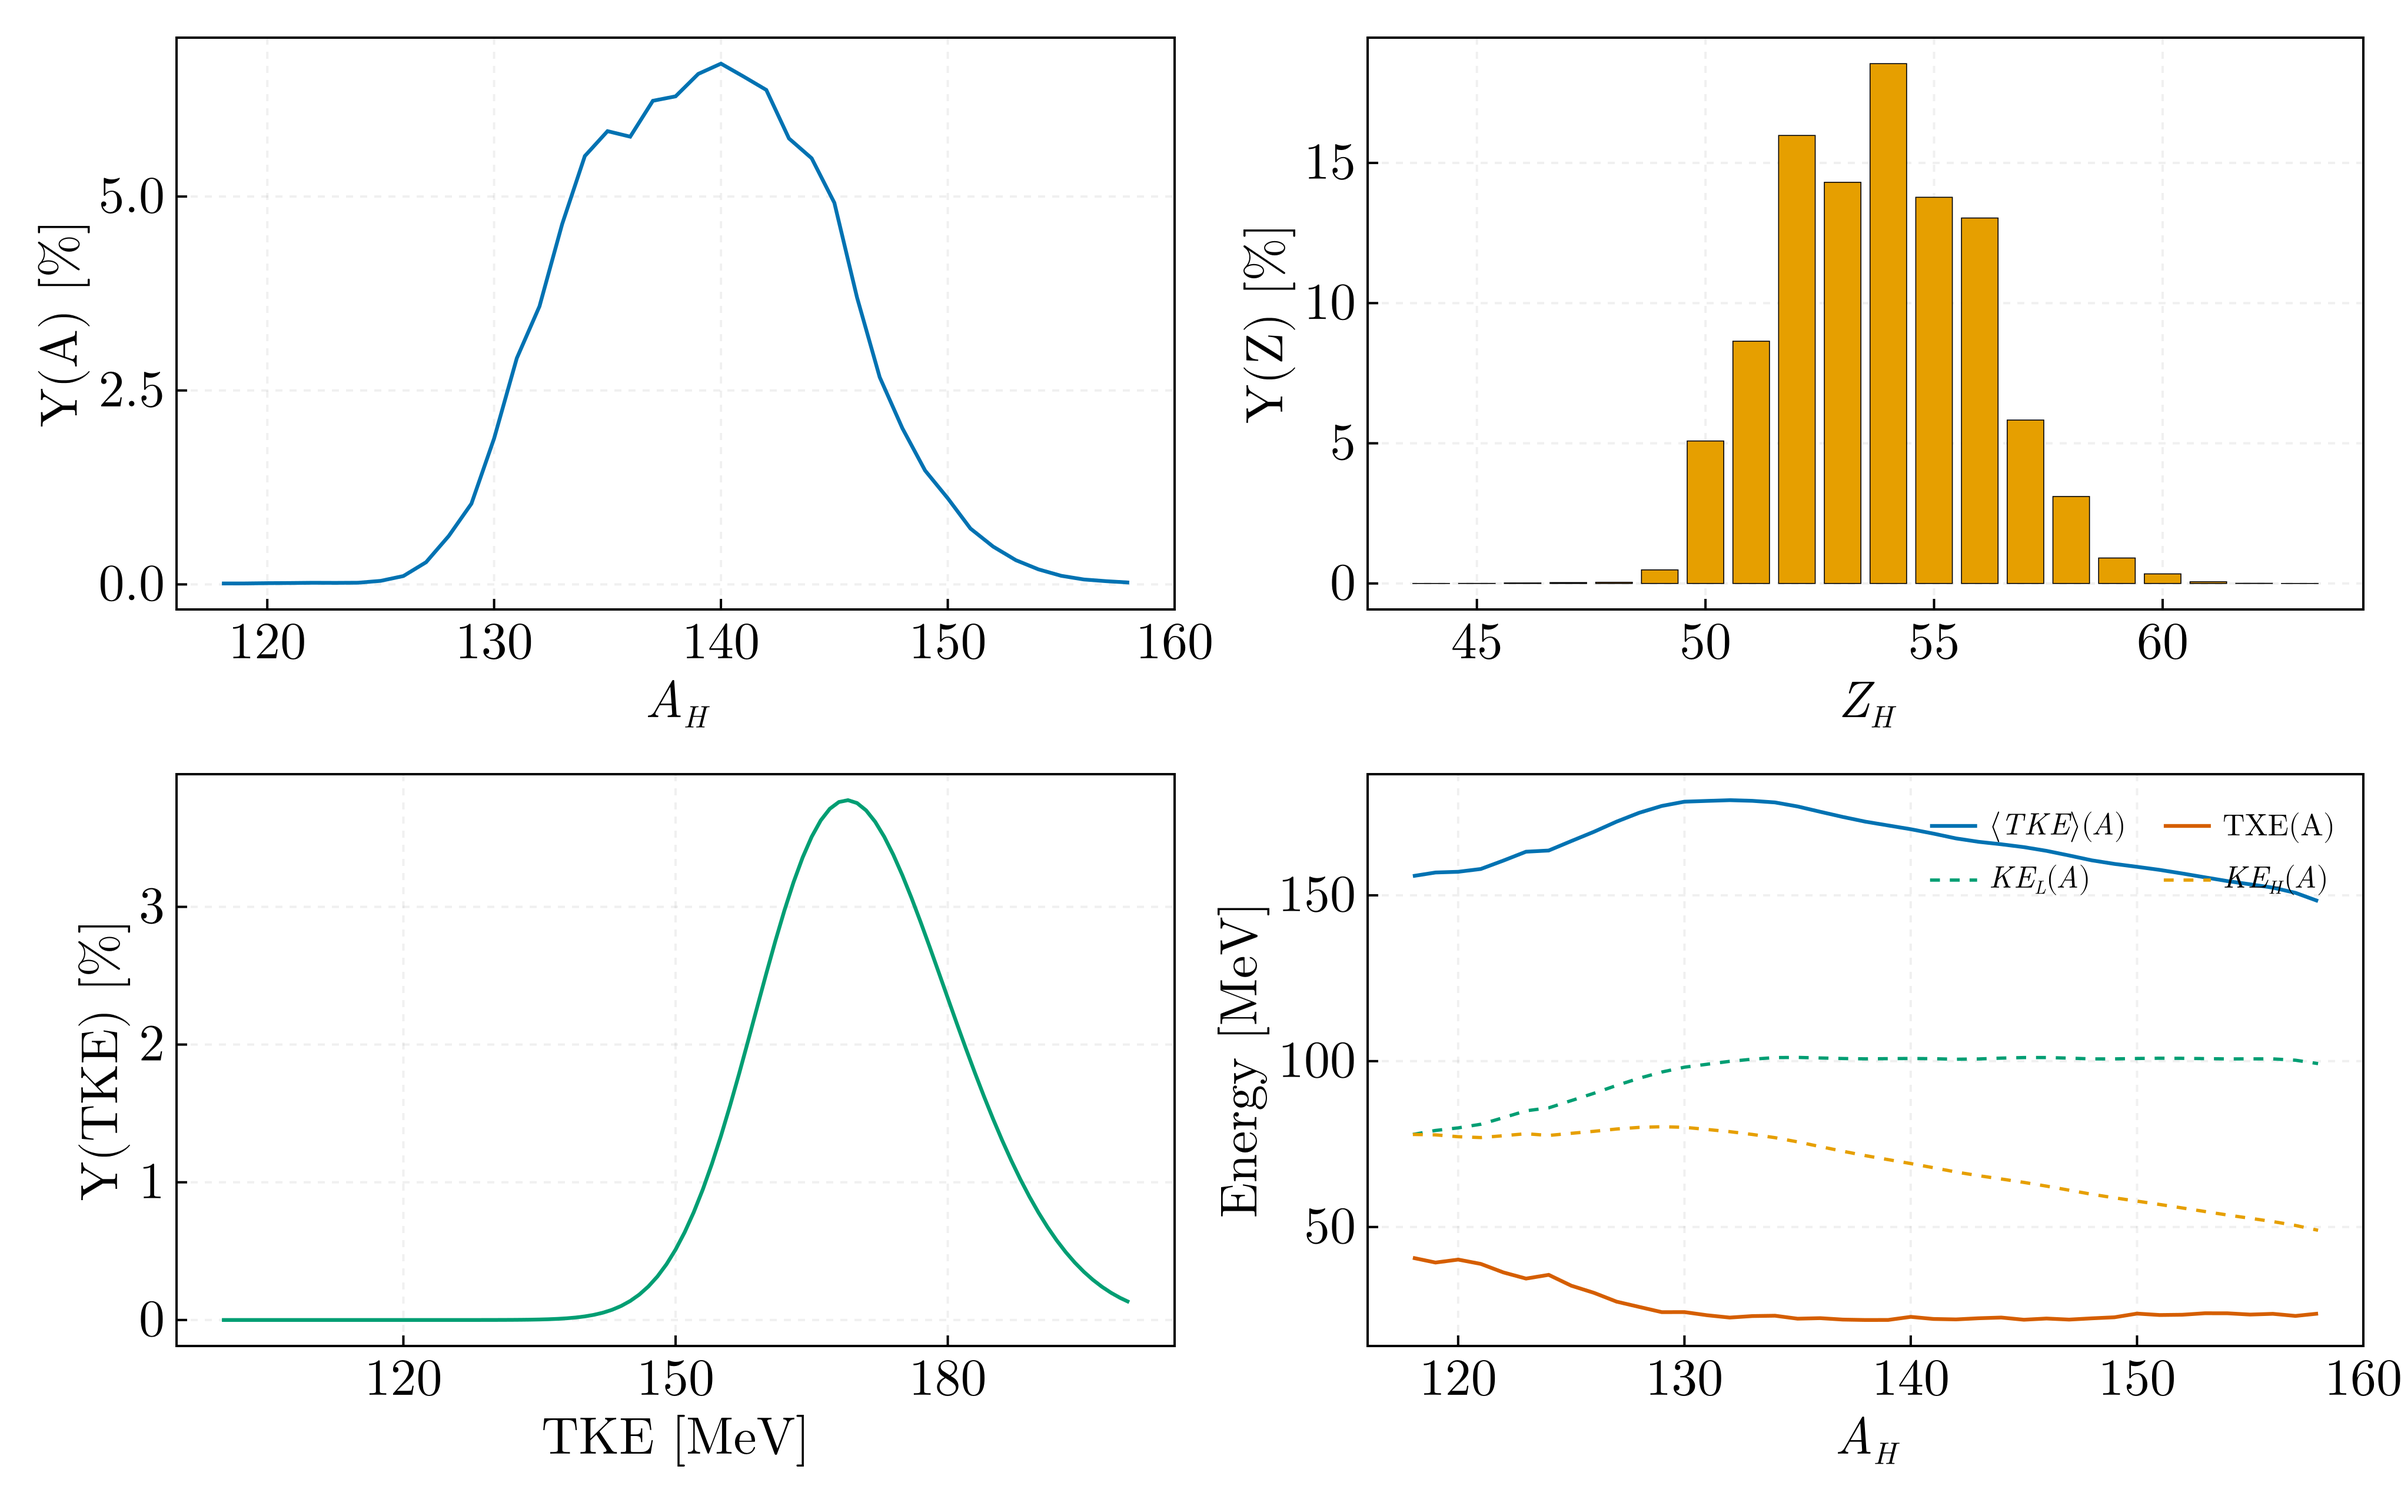
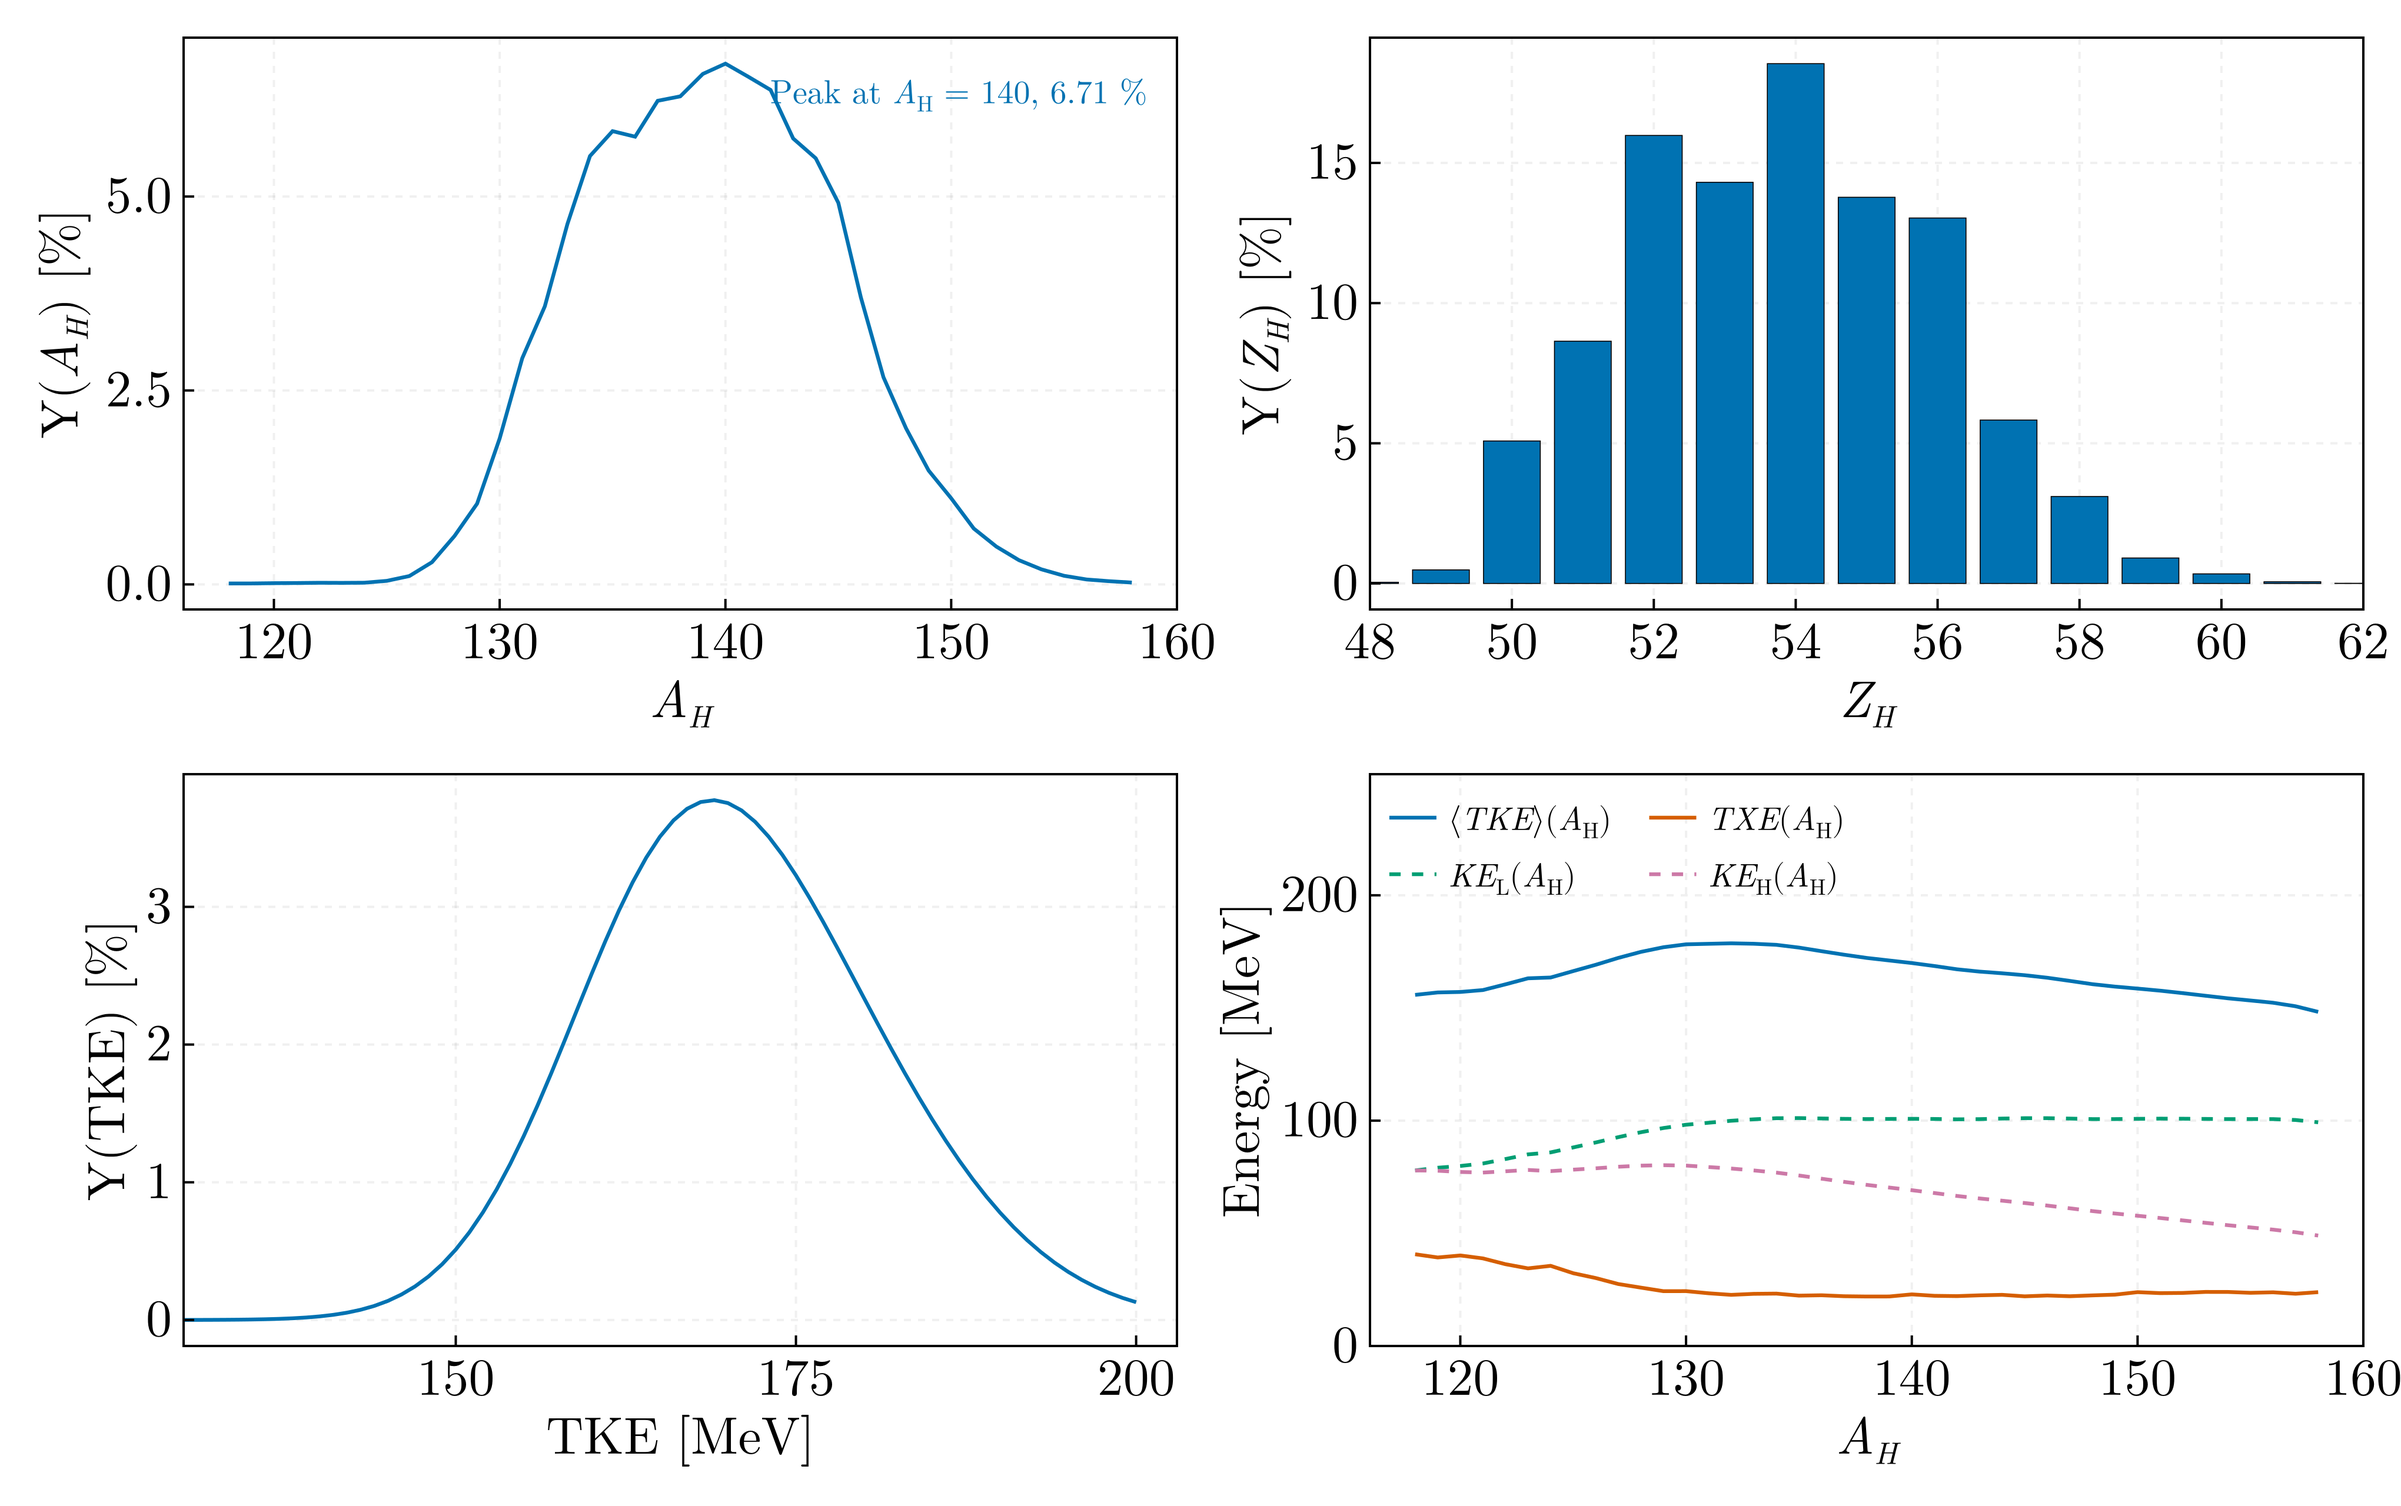
fix(msc/04): label both model branches and report the measurements on the figures
fragment_yields: the fourth panel legend sat on the ⟨TKE⟩ curve, which runs
across the top of the panel, and the curve crossed its KE_H swatch. Blue meant
Y(A) in the first panel and ⟨TKE⟩ in the fourth, green Y(TKE) and KE_L; the
yields now share one colour and the energies take their own. TXE was set
upright beside three italic siblings. Y(TKE) is zero below 140 MeV and its axis
started at 105.

neutron_multiplicity: the model is drawn twice, solid for the heavy fragment
and dashed for the light, and only the solid reached the legend, so the dashed
curve was unexplained. The pair multiplicity the module exists to measure is on
the figure now.

neutron_spectrum: the author is Göök; the legend spelt it Gook in all three
entries while the multiplicity figure spelt it correctly. T_M and the reduced
chi-squared join the legend entries, and the unit decade is labelled 1 rather
than 10^0.

fission_q_value: the README quoted a mean of 184.6 MeV and a range from 165.6
where the script prints 183.70 and 163.28, which is what the figure has always
shown. The README follows the code.

diff --git a/msc/04-fission-observables/README.md b/msc/04-fission-observables/README.md
@@ -15,8 +15,8 @@ boolean masking inside nested loops; `Fisiune_2.jl:TKE_A` alone made roughly
 
 ![Q value](figures/fission_q_value.png)
 
-Q(A_H) averaged over the isobaric charge distribution. Mean **184.6 MeV**, range
-165.6–196.0, peaking at **A_H = 130** — at the ¹³²Sn shell closure, where it
+Q(A_H) averaged over the isobaric charge distribution. Mean **183.7 MeV**, range
+163.3–196.0, peaking at **A_H = 130** — at the ¹³²Sn shell closure, where it
 must.
 
 ## `fragment_yields.jl`
